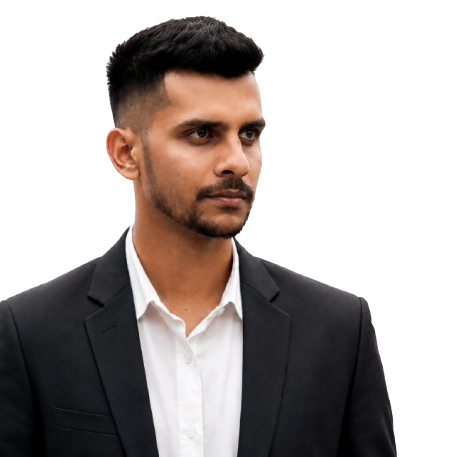
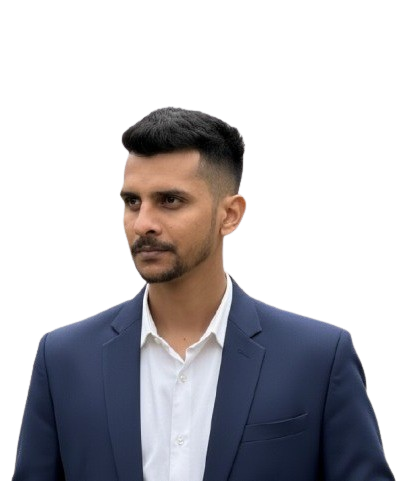
v 31

diff --git a/constants.ts b/constants.ts
@@ -1,24 +1,18 @@
 
 import { TeamMember, Testimonial, SlideData } from './types';
-import binduImage from './src/assets/bindu.png';
-import binduImageBw from './src/assets/bindu_bw.png';
+// One portrait per member. `personImage` is the cutout composited inside the
+// blue D on the Team page; `image` is the same asset reused for SEO
+// structured data, which is the only other place it is read.
 import binduPerson from './src/assets/bindu_1.png';
-import sneehaImage from './src/assets/peri.png';
-import sneehaImageBw from './src/assets/peri_bw.png';
 import sneehaPerson from './src/assets/peri_1.png';
-import yashImage from './src/assets/yash.png';
-import yashImageBw from './src/assets/yash_bw.png';
 import yashPerson from './src/assets/yash_1.png';
-import agarwalImage from './src/assets/agarwal.png';
-import agarwalImageBw from './src/assets/agarwal_bw.png';
 import agarwalPerson from './src/assets/agarwal_1.png';
 
 export const TEAM_MEMBERS: TeamMember[] = [
   {
     name: "Bindu Mohan",
     role: "Founder & Principal",
-    image: binduImage,
-    imageBw: binduImageBw,
+    image: binduPerson,
     personImage: binduPerson,
     bio: "A seasoned technical documentation leader and consultant with almost two decades of experience in building and optimizing content processes and teams. Bindu's expertise spans the entire content lifecycle, from establishing foundational practices to leading complex content migrations and strategies. With a passion for empowering organizations through user-centric documentation and integrated marketing content, Bindu leads her team at DTALES Tech in keeping pace with the evolving landscape of technical communication.",
     skills: ["Technical Documentation", "Content Strategy", "Team Leadership", "Process Optimization"],
@@ -28,8 +22,7 @@ export const TEAM_MEMBERS: TeamMember[] = [
   {
     name: "Sneha Peri",
     role: "Content Lead",
-    image: sneehaImage,
-    imageBw: sneehaImageBw,
+    image: sneehaPerson,
     personImage: sneehaPerson,
     bio: "As a Content Lead with a Master's in Language and Literature, Sneha Peri blends analytical rigor with narrative depth to transform complex B2B and tech concepts into compelling stories. She specializes in the intersection of Information Development and Narrative Design, ensuring technical documentation is both precise and strategically aligned with market needs. Leveraging her expertise in market research, Sneha crafts data-driven strategies that bridge the gap between sophisticated technology and impactful communication.",
     skills: ["Narrative Design", "Information Development", "Market Research", "B2B Content Strategy"],
@@ -40,8 +33,7 @@ export const TEAM_MEMBERS: TeamMember[] = [
   {
     name: "Yashas Niranjan",
     role: "Creative Lead",
-    image: yashImage,
-    imageBw: yashImageBw,
+    image: yashPerson,
     personImage: yashPerson,
     bio: "A creative strategist and graphic designer with an MA from Coventry University, Yashas Niranjana specializes in building modern brands through impactful visuals and clean, minimalist design. He works closely with startups and creators to transform abstract ideas into fresh, authentic digital content and effective brand identities. By combining advanced design theory with a results-driven approach, Yashas is focused on delivering solutions that foster a genuine connection between brands and their audiences.",
     skills: ["Brand Identity", "Visual Design", "Creative Strategy", "Minimalist Design"],
@@ -51,8 +43,7 @@ export const TEAM_MEMBERS: TeamMember[] = [
   {
     name: "Sakshi Agarwal",
     role: "Strategy Lead",
-    image: agarwalImage,
-    imageBw: agarwalImageBw,
+    image: agarwalPerson,
     personImage: agarwalPerson,
     bio: "A marketing generalist with a talent for clear communication and a strong conviction for client brands. With a background spanning education, systems building, and cross-functional operations, Sakshi brings an unusual lens to marketing, one shaped less by ad campaigns and more by the real work of helping people understand things. At DTALES Tech, she supports the complete marketing operations, from content distribution and outreach to pipeline management and audience engagement. Her experience leading multi-team initiatives at Teach For India and building marketing infrastructure from the ground up at Vivitsa World School means she can hold complexity without losing focus, which, in a fully-managed content agency, is exactly the skill that matters.",
     skills: ["Marketing Operations", "Content Distribution", "Pipeline Management", "Audience Engagement"],

diff --git a/pages/Team/components/TeamMemberCard.tsx b/pages/Team/components/TeamMemberCard.tsx
@@ -34,10 +34,10 @@ const BLOCK_SIZE = {
 // block's edges without ever spilling outside the D. Tune per person if a
 // composition looks off; these don't affect the source images.
 const PERSON_POSITION: Record<string, { left: string; bottom: string; width: string; height: string }> = {
-  'Bindu Mohan': { left: '-8%', bottom: '5%', width: '107%', height: '270%' },
-  'Sneha Peri': { left: '2%', bottom: '1%', width: '85%', height: '122%' },
-  'Yashas Niranjan': { left: '5%', bottom: '1%', width: '100%', height: '140%' },
-  'Sakshi Agarwal': { left: '-8%', bottom: '5%', width: '120%', height: '200%' },
+  'Bindu Mohan': { left: '-2%', bottom: '5%', width: '91%', height: '270%' },
+  'Sneha Peri': { left: '-7%', bottom: '1%', width: '99%', height: '122%' },
+  'Yashas Niranjan': { left: '-1%', bottom: '1%', width: '100%', height: '140%' },
+  'Sakshi Agarwal': { left: '5%', bottom: '5%', width: '78%', height: '200%' },
 };
 const DEFAULT_PERSON_POSITION = { left: '9%', bottom: '-6%', width: '84%', height: '126%' };
 

diff --git a/types.ts b/types.ts
@@ -2,7 +2,6 @@ export interface TeamMember {
   name: string;
   role: string;
   image: string;
-  imageBw: string;
   personImage: string;
   bio: string;
   skills?: string[];
